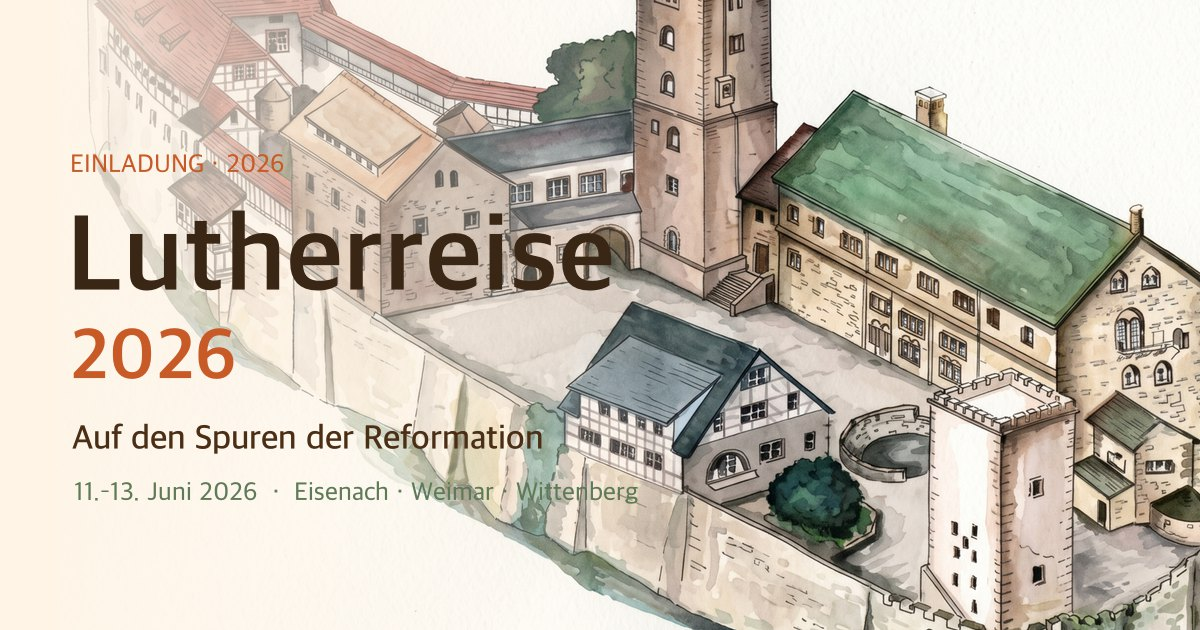
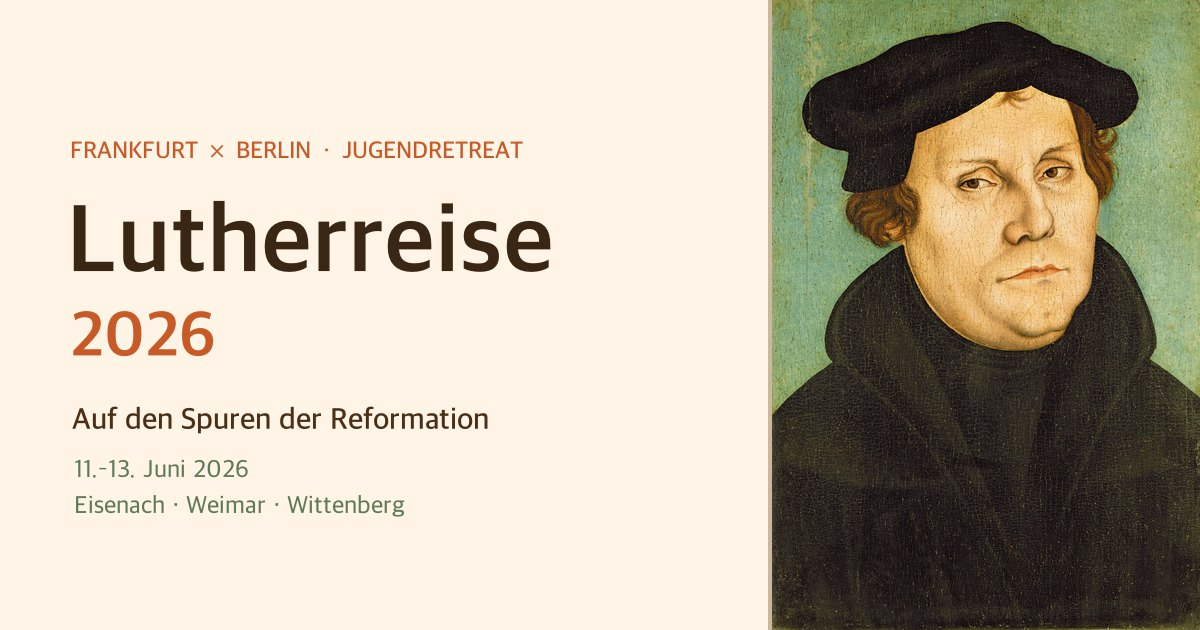
Update link preview: Luther portrait image + Jugendretreat title
- Replace OG image with Cranach's Martin Luther portrait
- Reframe title as "Frankfurt × Berlin Jugendretreat: Lutherreise 2026"
- Bump og-image cache to v=2

diff --git a/index.html b/index.html
@@ -3,28 +3,28 @@
 <head>
   <meta charset="UTF-8">
   <meta name="viewport" content="width=device-width, initial-scale=1.0">
-  <title>Lutherreise 2026 — Auf den Spuren der Reformation</title>
-  <meta name="description" content="11.–13. Juni 2026 · Eisenach · Weimar · Wittenberg. Komm mit uns auf eine besondere Reise auf den Spuren der Reformation!">
+  <title>Frankfurt × Berlin Jugendretreat: Lutherreise 2026</title>
+  <meta name="description" content="Frankfurt × Berlin Jugendretreat · 11.–13. Juni 2026 · Eisenach · Weimar · Wittenberg. Komm mit auf unsere Reise auf den Spuren der Reformation!">
 
   <!-- Open Graph (WhatsApp / Facebook / KakaoTalk 미리보기) -->
   <meta property="og:type" content="website">
   <meta property="og:site_name" content="Lutherreise 2026">
   <meta property="og:locale" content="de_DE">
   <meta property="og:url" content="https://einepackung.github.io/lutherreise-2026/">
-  <meta property="og:title" content="Lutherreise 2026 — Auf den Spuren der Reformation">
-  <meta property="og:description" content="11.–13. Juni 2026 · Eisenach · Weimar · Wittenberg. Komm mit auf unsere Reise!">
-  <meta property="og:image" content="https://einepackung.github.io/lutherreise-2026/assets/og-image.jpg?v=1">
-  <meta property="og:image:secure_url" content="https://einepackung.github.io/lutherreise-2026/assets/og-image.jpg?v=1">
+  <meta property="og:title" content="Frankfurt × Berlin Jugendretreat: Lutherreise 2026">
+  <meta property="og:description" content="Auf den Spuren der Reformation · 11.–13. Juni 2026 · Eisenach · Weimar · Wittenberg. Komm mit!">
+  <meta property="og:image" content="https://einepackung.github.io/lutherreise-2026/assets/og-image.jpg?v=2">
+  <meta property="og:image:secure_url" content="https://einepackung.github.io/lutherreise-2026/assets/og-image.jpg?v=2">
   <meta property="og:image:type" content="image/jpeg">
   <meta property="og:image:width" content="1200">
   <meta property="og:image:height" content="630">
-  <meta property="og:image:alt" content="Lutherreise 2026 — Wartburg">
+  <meta property="og:image:alt" content="Frankfurt × Berlin Jugendretreat: Lutherreise 2026 — Martin Luther">
 
   <!-- Twitter / X -->
   <meta name="twitter:card" content="summary_large_image">
-  <meta name="twitter:title" content="Lutherreise 2026 — Auf den Spuren der Reformation">
-  <meta name="twitter:description" content="11.–13. Juni 2026 · Eisenach · Weimar · Wittenberg.">
-  <meta name="twitter:image" content="https://einepackung.github.io/lutherreise-2026/assets/og-image.jpg?v=1">
+  <meta name="twitter:title" content="Frankfurt × Berlin Jugendretreat: Lutherreise 2026">
+  <meta name="twitter:description" content="Auf den Spuren der Reformation · 11.–13. Juni 2026 · Eisenach · Weimar · Wittenberg.">
+  <meta name="twitter:image" content="https://einepackung.github.io/lutherreise-2026/assets/og-image.jpg?v=2">
 
   <link rel="stylesheet" href="styles.css?v=3">
   <script crossorigin src="https://unpkg.com/react@17/umd/react.development.js"></script>
